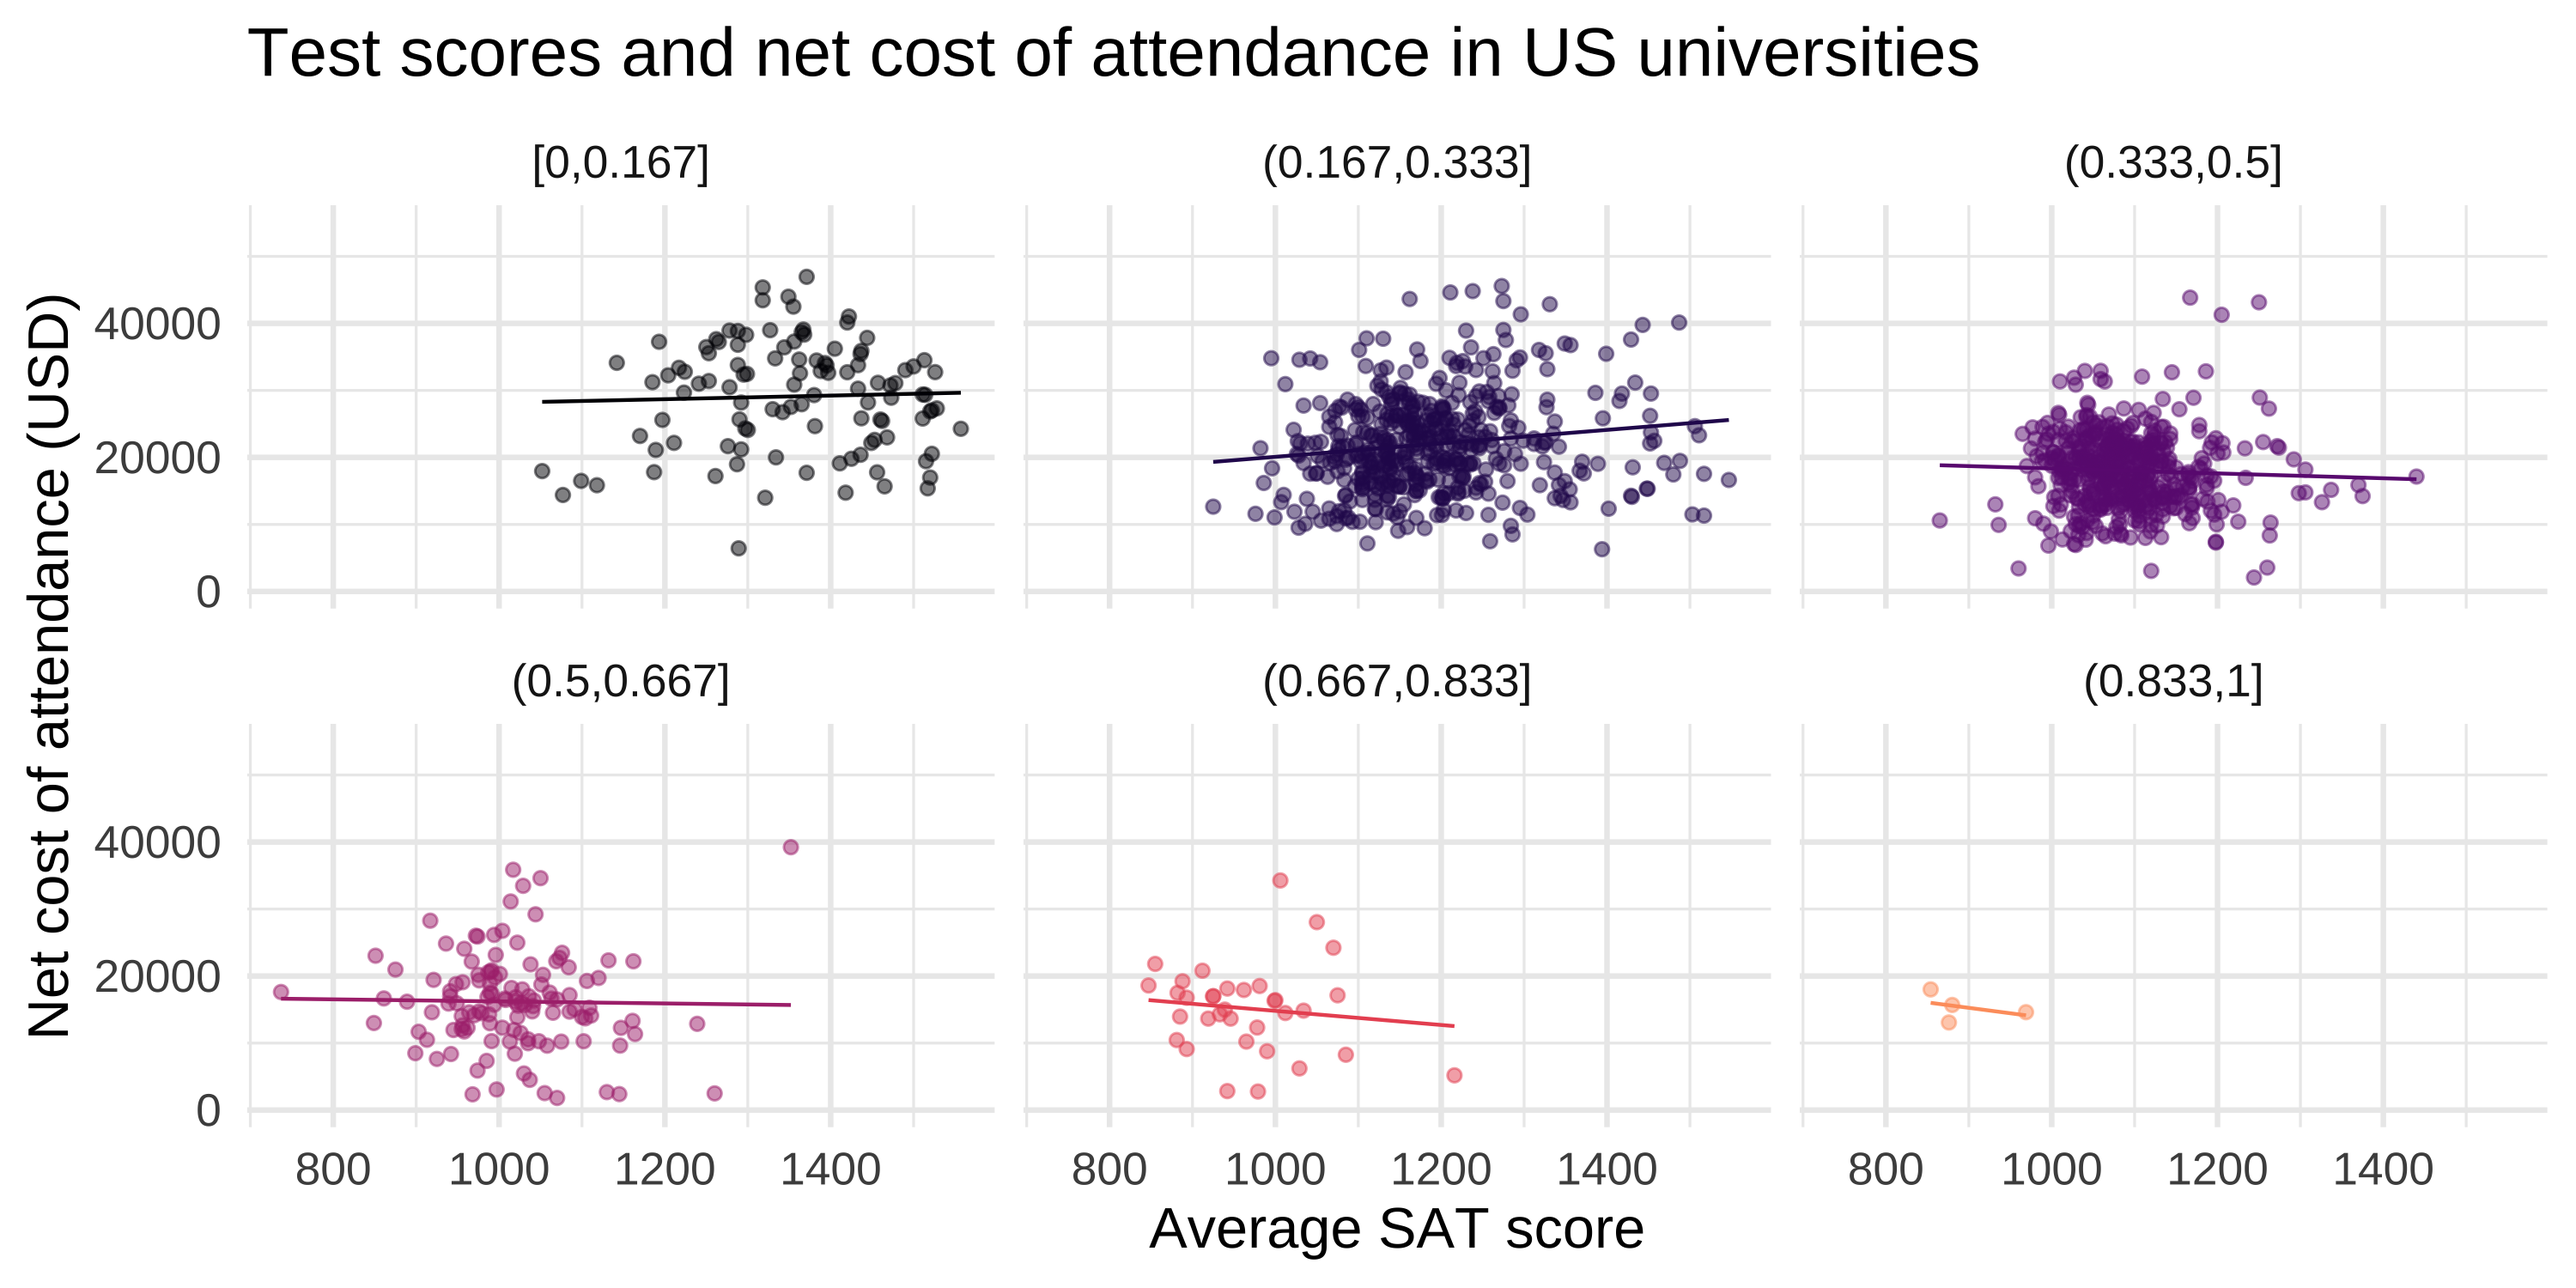
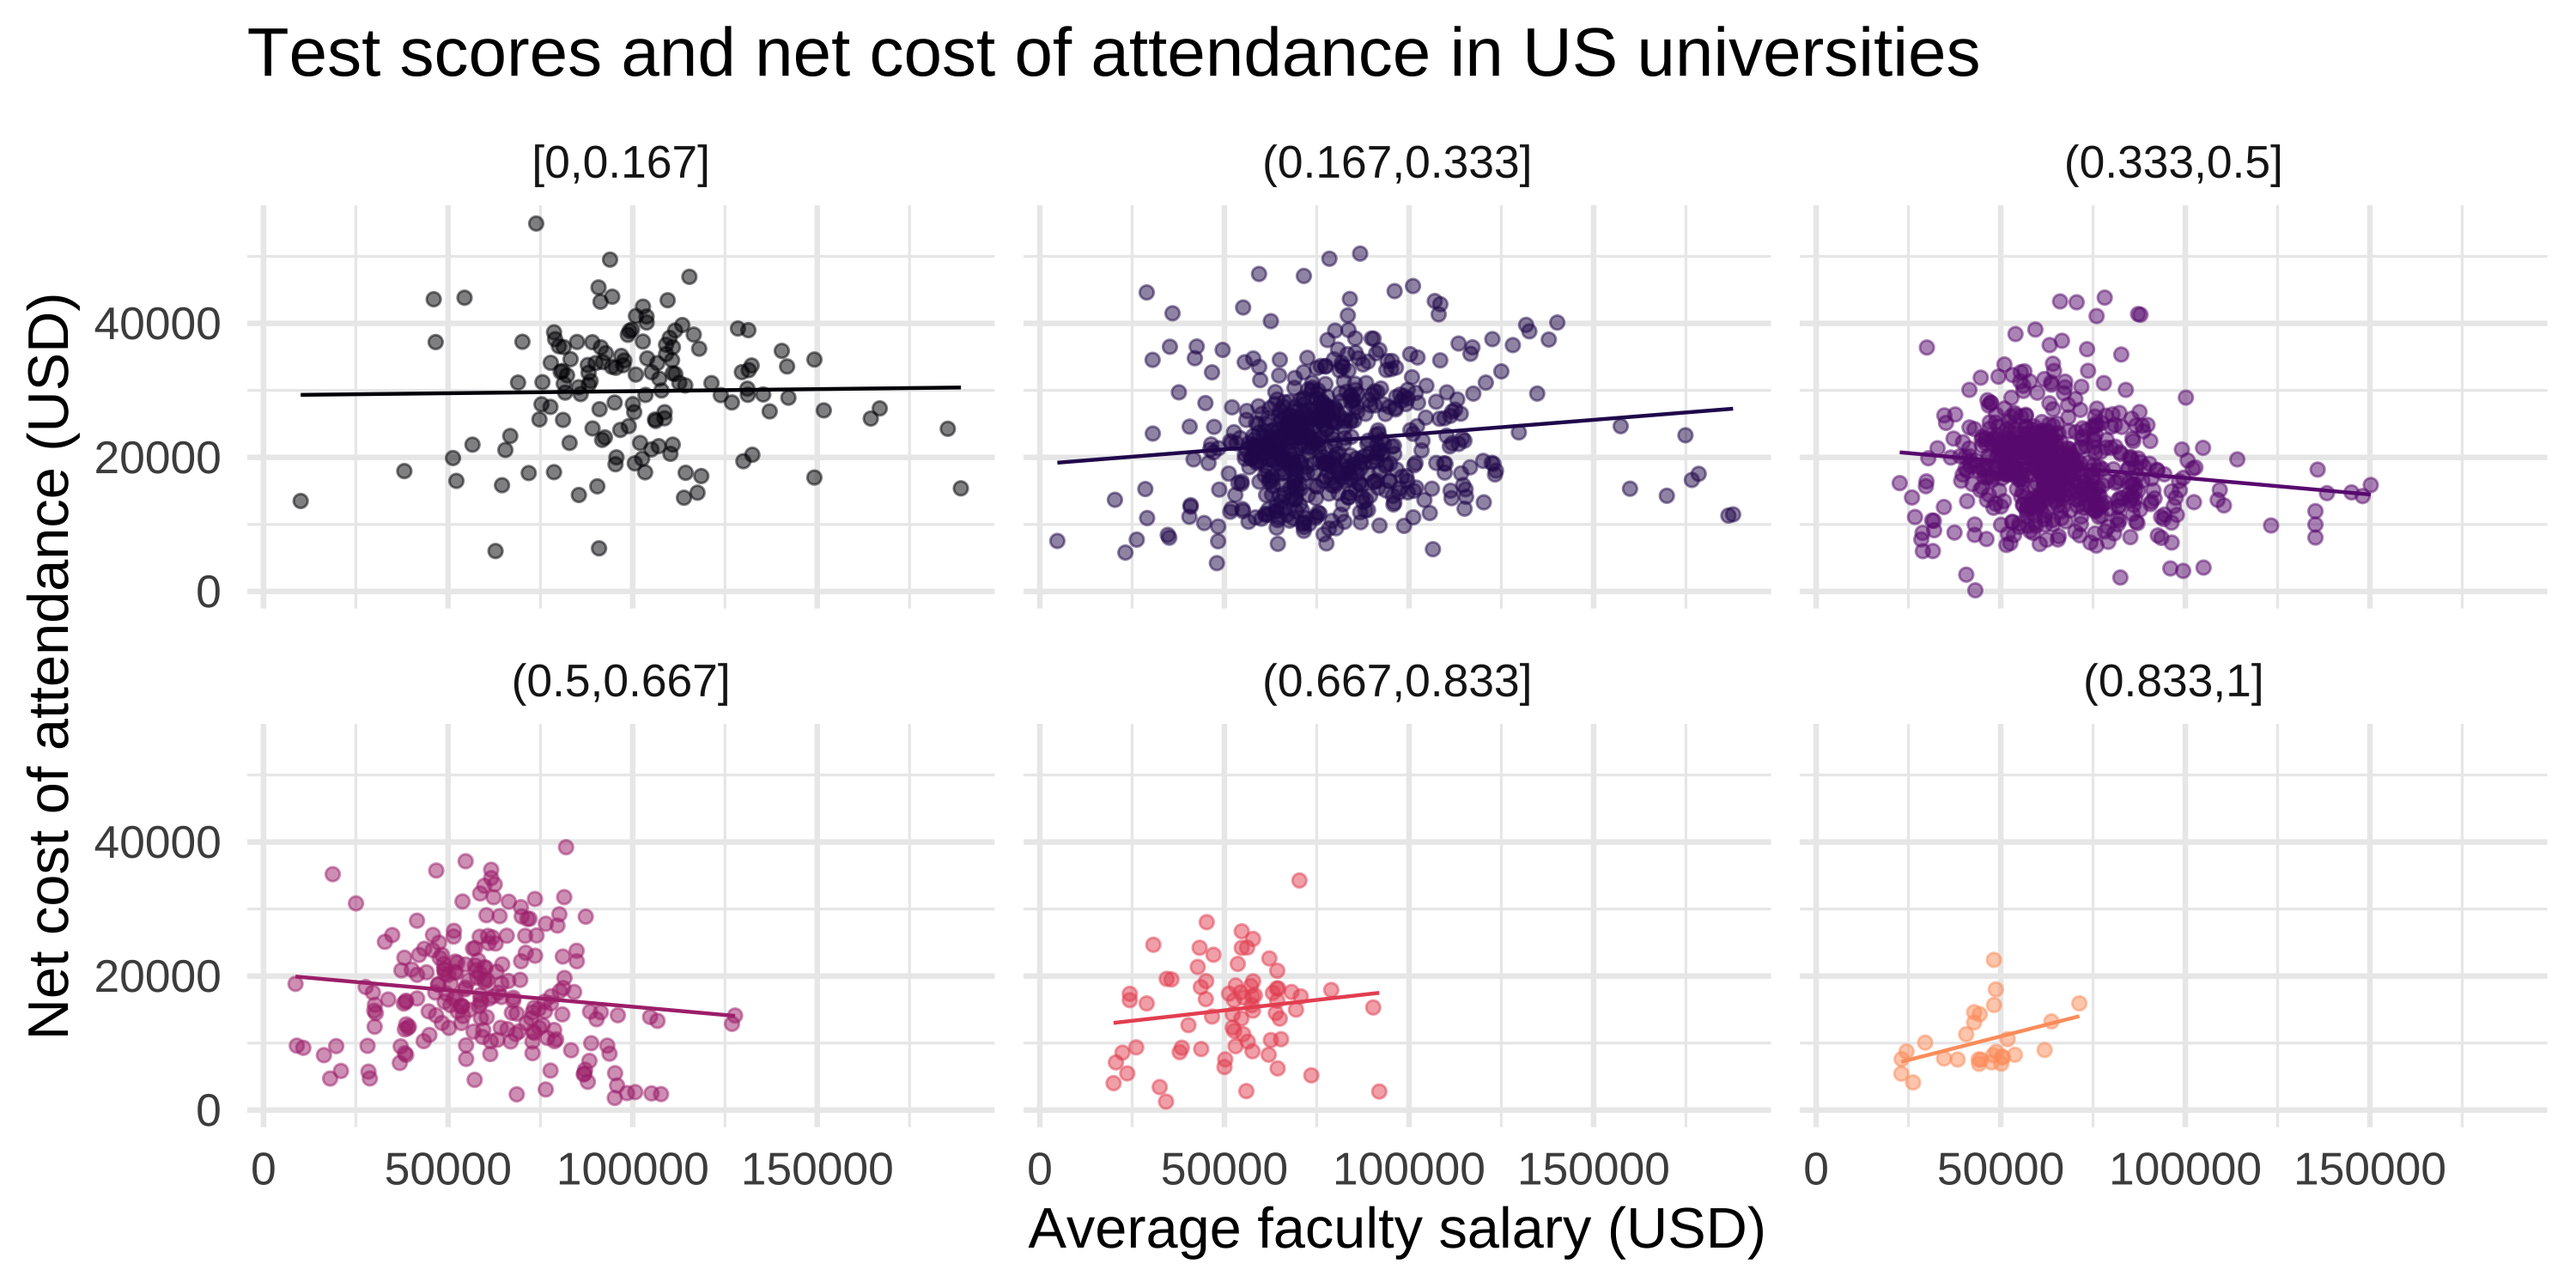
Remove SAT scores from deep dive examples. Not a great correlation with Pell grant recipients, and I thought I already did this.

diff --git a/04-geoms/index.html b/04-geoms/index.html
@@ -172,19 +172,19 @@ Do you expect the following plots to be the same or different? If different, how
 
 ```r
 # Plot A
-ggplot(scorecard, aes(x = satavg, y = netcost, color = pctpell_cat)) +
+ggplot(scorecard, aes(x = avgfacsal, y = netcost, color = pctpell_cat)) +
   geom_point(alpha = 0.7) +
   geom_smooth(method = "lm", se = FALSE, size = 0.5)
 ```
 
 ```r
 # Plot B
-ggplot(scorecard, aes(x = satavg, y = netcost)) +
+ggplot(scorecard, aes(x = avgfacsal, y = netcost)) +
   geom_point(aes(color = pctpell_cat), alpha = 0.7) +
   geom_smooth(method = "lm", se = FALSE, size = 0.5)
 ```
 
-<div class="countdown" id="timer_6244b2ff" style="right:0;bottom:0;" data-warnwhen="0">
+<div class="countdown" id="timer_62471f99" style="right:0;bottom:0;" data-warnwhen="0">
 <code class="countdown-time"><span class="countdown-digits minutes">03</span><span class="countdown-digits colon">:</span><span class="countdown-digits seconds">00</span></code>
 </div>
 
@@ -199,19 +199,19 @@ Do you expect the following plots to be the same or different? If different, how
 
 ```r
 # Plot A
-ggplot(scorecard, aes(x = satavg, y = netcost)) +
+ggplot(scorecard, aes(x = avgfacsal, y = netcost)) +
   geom_point(aes(color = pctpell_cat))
 ```
 
 ```r
 # Plot B
-ggplot(scorecard, aes(x = satavg, y = netcost)) +
+ggplot(scorecard, aes(x = avgfacsal, y = netcost)) +
   geom_point(color = "blue")
 ```
 
 ```r
 # Plot C
-ggplot(scorecard, aes(x = satavg, y = netcost)) +
+ggplot(scorecard, aes(x = avgfacsal, y = netcost)) +
   geom_point(color = "#a493ba")
 ```
 
@@ -449,7 +449,7 @@ ggplot(scorecard, aes(x = netcost)) +
 
 &lt;img src="index_files/figure-html/unnamed-chunk-26-1.png" width="80%" style="display: block; margin: auto;" /&gt;
 
-<div class="countdown" id="timer_6244b20e" style="right:0;bottom:0;" data-warnwhen="0">
+<div class="countdown" id="timer_62471ff4" style="right:0;bottom:0;" data-warnwhen="0">
 <code class="countdown-time"><span class="countdown-digits minutes">03</span><span class="countdown-digits colon">:</span><span class="countdown-digits seconds">00</span></code>
 </div>
 
@@ -506,9 +506,9 @@ ggplot(scorecard, aes(x = netcost, color = pctpell_cat)) +
 
 
 ```r
-ggplot(scorecard, aes(x = satavg, y = netcost)) +
+ggplot(scorecard, aes(x = avgfacsal, y = netcost)) +
   geom_point() +
-  geom_rug()
+  geom_rug(alpha = 0.1)
 ```
 
 &lt;img src="index_files/figure-html/unnamed-chunk-31-1.png" width="60%" style="display: block; margin: auto;" /&gt;
@@ -519,9 +519,9 @@ ggplot(scorecard, aes(x = satavg, y = netcost)) +
 
 
 ```r
-ggplot(scorecard, aes(x = satavg, y = netcost)) +
+ggplot(scorecard, aes(x = avgfacsal, y = netcost)) +
   geom_point() +
-  geom_rug(outside = TRUE) +
+  geom_rug(alpha = 0.1, outside = TRUE) +
   coord_cartesian(clip = "off")
 ```
 
@@ -533,9 +533,9 @@ ggplot(scorecard, aes(x = satavg, y = netcost)) +
 
 
 ```r
-ggplot(scorecard, aes(x = satavg, y = netcost)) +
+ggplot(scorecard, aes(x = avgfacsal, y = netcost)) +
   geom_point() +
-  geom_rug(outside = TRUE, sides = "tr") +
+  geom_rug(alpha = 0.1, outside = TRUE, sides = "tr") +
   coord_cartesian(clip = "off") +
   theme(plot.margin = margin(1, 1, 1, 1, "cm"))
 ```
@@ -549,7 +549,7 @@ ggplot(scorecard, aes(x = satavg, y = netcost)) +
 
 ```r
 sample_n(scorecard, size = 50) %&gt;%
-  ggplot(aes(x = satavg, y = netcost)) +
+  ggplot(aes(x = avgfacsal, y = netcost)) +
   geom_text(aes(label = type))
 ```
 
@@ -563,7 +563,7 @@ sample_n(scorecard, size = 50) %&gt;%
 
 ```r
 sample_n(scorecard, size = 50) %&gt;%
-  ggplot(aes(x = satavg, y = netcost)) +
+  ggplot(aes(x = avgfacsal, y = netcost)) +
   geom_text(aes(label = type, color = type))
 ```
 
@@ -576,7 +576,7 @@ sample_n(scorecard, size = 50) %&gt;%
 
 ```r
 sample_n(scorecard, size = 50) %&gt;%
-  ggplot(aes(x = satavg, y = netcost)) +
+  ggplot(aes(x = avgfacsal, y = netcost)) +
   geom_text(aes(label = type, color = type),
     show.legend = FALSE
   )
@@ -598,7 +598,7 @@ sample_n(scorecard, size = 50) %&gt;%
 
 
 ```r
-ggplot(scorecard, aes(x = satavg, y = netcost)) +
+ggplot(scorecard, aes(x = avgfacsal, y = netcost)) +
   geom_hex()
 ```
 
@@ -672,7 +672,7 @@ ggplot(scorecard, aes(x = type, y = netcost)) +
 ]
 ]
 
-<div class="countdown" id="timer_6244b036" style="right:0;bottom:0;" data-warnwhen="0">
+<div class="countdown" id="timer_62471fa2" style="right:0;bottom:0;" data-warnwhen="0">
 <code class="countdown-time"><span class="countdown-digits minutes">03</span><span class="countdown-digits colon">:</span><span class="countdown-digits seconds">00</span></code>
 </div>
 
@@ -828,7 +828,7 @@ ggplot(mean_netcost_pctpell, aes(x = pctpell, y = mean_netcost)) +
 ]
 ]
 
-<div class="countdown" id="timer_6244b00d" style="right:0;bottom:0;" data-warnwhen="0">
+<div class="countdown" id="timer_6247228b" style="right:0;bottom:0;" data-warnwhen="0">
 <code class="countdown-time"><span class="countdown-digits minutes">03</span><span class="countdown-digits colon">:</span><span class="countdown-digits seconds">00</span></code>
 </div>
 
@@ -852,12 +852,12 @@ library(scales)
 &lt;div class="panel-name"&gt;Code&lt;/div&gt;
 
 ```r
-ggplot(scorecard, aes(x = satavg, y = netcost)) +
+ggplot(scorecard, aes(x = avgfacsal, y = netcost)) +
   geom_point(alpha = 0.4, size = 2, color = "#012169") +
   scale_x_continuous(labels = label_number(big.mark = ",")) +
   scale_y_continuous(labels = label_dollar()) +
   labs(
-    x = "Average SAT score",
+    x = "Average faculty salary (USD)",
     y = "Net cost of attendance (USD)",
     title = "Test scores and net cost of attendance in US universities",
     subtitle = "2018-19",
@@ -960,7 +960,7 @@ For each of the following problems, suggest a useful geom:
 1. Label outlying points in a single variable
 ]
 
-<div class="countdown" id="timer_6244b2c5" style="right:0;bottom:0;" data-warnwhen="0">
+<div class="countdown" id="timer_62472125" style="right:0;bottom:0;" data-warnwhen="0">
 <code class="countdown-time"><span class="countdown-digits minutes">03</span><span class="countdown-digits colon">:</span><span class="countdown-digits seconds">00</span></code>
 </div>
 

diff --git a/03-look-at-data/index.html b/03-look-at-data/index.html
@@ -318,11 +318,11 @@ glimpse(scorecard)
 &lt;div class="panel-name"&gt;Code&lt;/div&gt;
 
 ```r
-ggplot(scorecard, aes(x = satavg, y = netcost)) +
+ggplot(scorecard, aes(x = avgfacsal, y = netcost)) +
   geom_point(alpha = 0.5, size = 2) +
   geom_smooth(method = "lm", se = FALSE, size = 0.7) +
   labs(
-    x = "Average SAT score",
+    x = "Average faculty salary (USD)",
     y = "Net cost of attendance (USD)",
     title = "Test scores and net cost of attendance in US universities"
   )
@@ -406,15 +406,15 @@ scorecard %&gt;%
 &lt;div class="panel-name"&gt;Code&lt;/div&gt;
 
 ```r
-ggplot(scorecard, aes(x = satavg, y = netcost, color = pctpell_cat)) +
+ggplot(scorecard, aes(x = avgfacsal, y = netcost, color = pctpell_cat)) +
   geom_point(alpha = 0.5, show.legend = FALSE) +
   geom_smooth(method = "lm", se = FALSE, size = 0.5, show.legend = FALSE) +
   facet_wrap(vars(pctpell_cat)) +
   labs(
-    x = "Average SAT score",
+    x = "Average faculty salary (USD)",
     y = "Net cost of attendance (USD)",
     color = "Percentage of Pell grant recipients",
-    title = "Test scores and net cost of attendance in US universities"
+    title = "Faculty salaries and net cost of attendance in US universities"
   )
 ```
 
@@ -485,12 +485,12 @@ a deeper look at the plotting code...
 .panel[.panel-name[Code]
 
 ```r
-ggplot(scorecard, aes(x = satavg, y = netcost, color = pctpell_cat)) +
+ggplot(scorecard, aes(x = avgfacsal, y = netcost, color = pctpell_cat)) +
   geom_point(alpha = 0.5, show.legend = FALSE) +
   geom_smooth(method = "lm", se = FALSE, size = 0.5, show.legend = FALSE) +
   facet_wrap(vars(pctpell_cat)) +
   labs(
-    x = "Average SAT score",
+    x = "Average faculty salary (USD)",
     y = "Net cost of attendance (USD)",
     color = "Percentage of Pell grant recipients",
     title = "Test scores and net cost of attendance in US universities"
@@ -512,12 +512,12 @@ ggplot(scorecard, aes(x = satavg, y = netcost, color = pctpell_cat)) +
 .panel[.panel-name[Code]
 
 ```r
-ggplot(scorecard, aes(x = satavg, y = netcost, color = pctpell_cat)) +
+ggplot(scorecard, aes(x = avgfacsal, y = netcost, color = pctpell_cat)) +
   geom_point(alpha = 0.5, show.legend = FALSE) +
   geom_smooth(method = "lm", se = FALSE, size = 0.5, show.legend = FALSE) +
   facet_wrap(vars(pctpell_cat)) +
   labs(
-    x = "Average SAT score",
+    x = "Average faculty salary (USD)",
     y = "Net cost of attendance (USD)",
     color = "Percentage of Pell grant recipients",
     title = "Test scores and net cost of attendance in US universities"
@@ -539,12 +539,12 @@ ggplot(scorecard, aes(x = satavg, y = netcost, color = pctpell_cat)) +
 .panel[.panel-name[Code]
 
 ```r
-ggplot(scorecard, aes(x = satavg, y = netcost, color = pctpell_cat)) +
+ggplot(scorecard, aes(x = avgfacsal, y = netcost, color = pctpell_cat)) +
   geom_point(alpha = 0.5, show.legend = FALSE) +
   geom_smooth(method = "lm", se = FALSE, size = 0.5, show.legend = FALSE) +
   facet_wrap(vars(pctpell_cat)) +
   labs(
-    x = "Average SAT score",
+    x = "Average faculty salary (USD)",
     y = "Net cost of attendance (USD)",
     color = "Percentage of Pell grant recipients",
     title = "Test scores and net cost of attendance in US universities"
@@ -724,7 +724,7 @@ This is Minard’s visualization of Napoleon’s retreat. Discuss in a pair (or 
 
 &lt;img src="images/minard.jpg" title="Minard’s visualization of Napoleon’s retreat" alt="Minard’s visualization of Napoleon’s retreat" width="83%" style="display: block; margin: auto;" /&gt;
 
-<div class="countdown" id="timer_62471fbe" style="top:0;right:0;" data-warnwhen="0">
+<div class="countdown" id="timer_6247215c" style="top:0;right:0;" data-warnwhen="0">
 <code class="countdown-time"><span class="countdown-digits minutes">05</span><span class="countdown-digits colon">:</span><span class="countdown-digits seconds">00</span></code>
 </div>
 
@@ -819,7 +819,7 @@ ggplot(mean_netcost_pctpell, aes(y = pctpell_cat, x = mean_netcost)) +
 ]
 ]
 
-<div class="countdown" id="timer_62471ebc" style="right:0;bottom:0;" data-warnwhen="0">
+<div class="countdown" id="timer_624721a7" style="right:0;bottom:0;" data-warnwhen="0">
 <code class="countdown-time"><span class="countdown-digits minutes">03</span><span class="countdown-digits colon">:</span><span class="countdown-digits seconds">00</span></code>
 </div>
 
